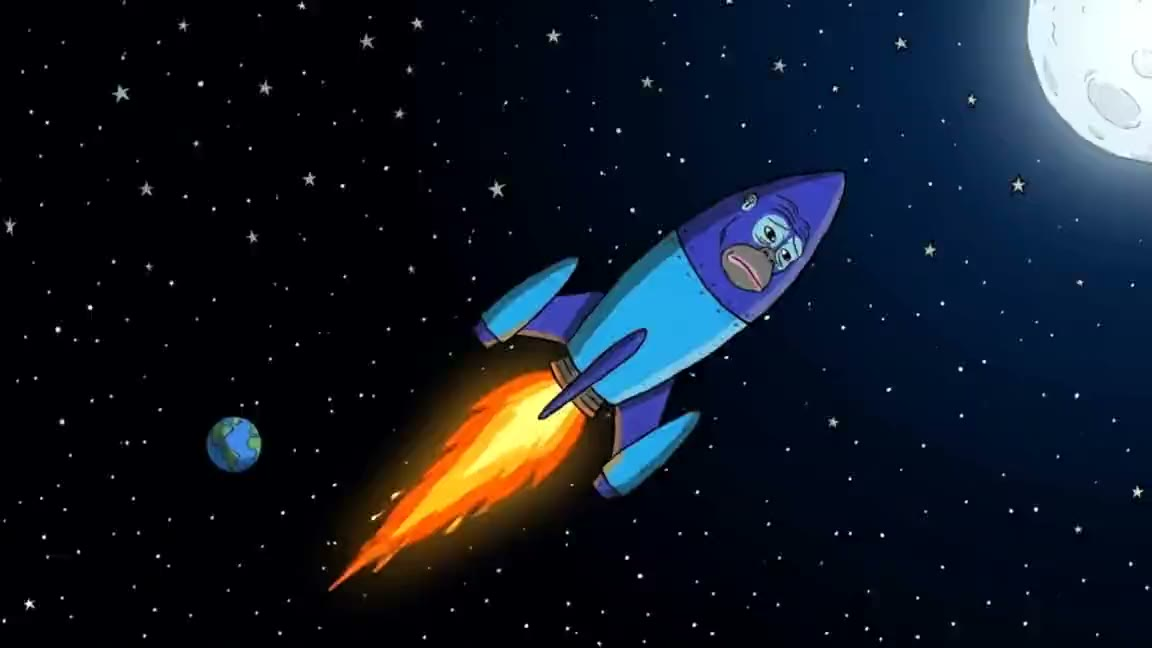
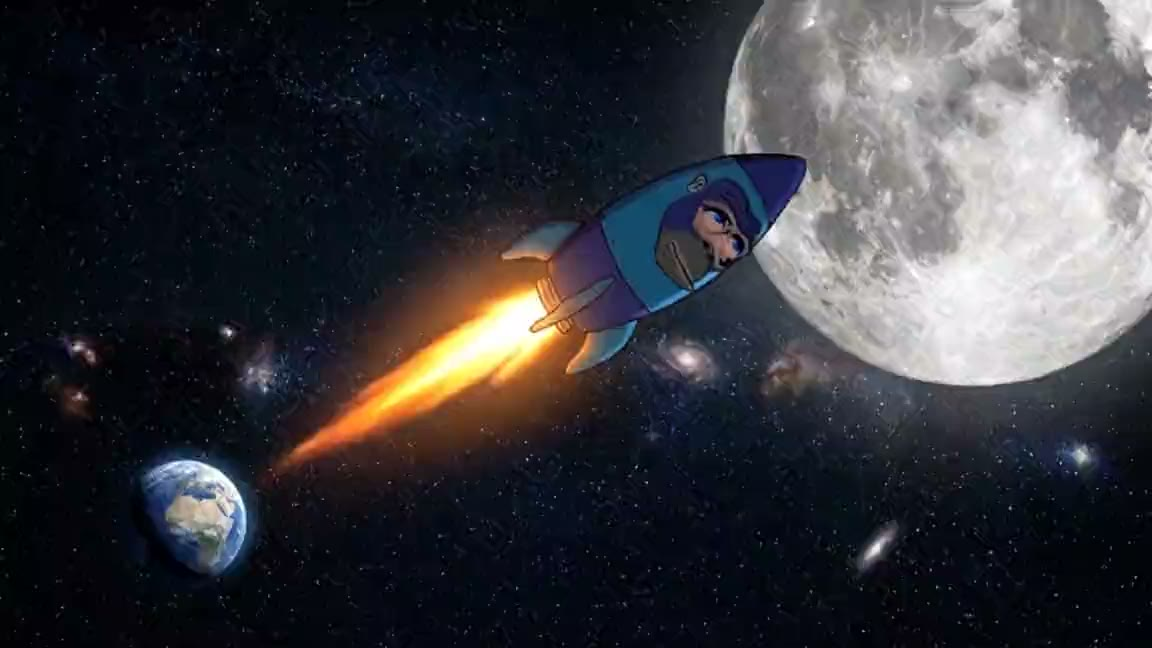
feat: base Ronke NFT card, style-consistent hero film, score sub-nav dropdowns
- Ecosystem NFT card now uses the actual base Ronke 1/1 (Ronkeverse
  #5309: all-default traits) instead of the full-body brand art
- Hero film acts 2-3 reshot in act 1's mixed-media style (photoreal
  night scene / space, cartoon character) - no more flat-drawing style
  break; joins re-verified frame- and style-continuous
- Score sub-sections surfaced in navigation: SCORE dropdown in both
  navbars (hover on desktop, indented list in mobile menu) linking to
  /score?tab=..., tabs deep-linkable and URL-synced with highlighting

diff --git a/components/navbar.tsx b/components/navbar.tsx
@@ -3,6 +3,8 @@
 import Image from "next/image";
 import { usePathname } from "next/navigation";
 import { useEffect, useState } from "react";
+import { ChevronDown } from "lucide-react";
+import { SCORE_TABS } from "./score-embed-tabs";
 
 const NAV_ITEMS = [
   { id: "film", label: "FILM" },
@@ -87,19 +89,52 @@ export default function Navbar() {
             </a>
 
             <div className="hidden items-center gap-6 lg:flex">
-              {NAV_ITEMS.map((item) => (
-                <button
-                  key={item.id}
-                  onClick={() => scrollToSection(item.id)}
-                  className={`text-[13px] font-medium tracking-wide transition-colors ${
-                    activeSection === item.id
-                      ? "text-accent"
-                      : "text-muted-1 hover:text-foreground"
-                  }`}
-                >
-                  {item.label}
-                </button>
-              ))}
+              {NAV_ITEMS.map((item) =>
+                item.id === "score" ? (
+                  <div key={item.id} className="group relative">
+                    <button
+                      onClick={() => scrollToSection(item.id)}
+                      className={`inline-flex items-center gap-1 py-5 text-[13px] font-medium tracking-wide transition-colors ${
+                        activeSection === item.id
+                          ? "text-accent"
+                          : "text-muted-1 hover:text-foreground"
+                      }`}
+                    >
+                      {item.label}
+                      <ChevronDown className="h-3.5 w-3.5" strokeWidth={2} />
+                    </button>
+                    <div className="invisible absolute left-1/2 top-full z-50 w-44 -translate-x-1/2 pt-1 opacity-0 transition-all duration-150 group-focus-within:visible group-focus-within:opacity-100 group-hover:visible group-hover:opacity-100">
+                      <div className="rv-card overflow-hidden py-2">
+                        {SCORE_TABS.map((tab) => (
+                          <a
+                            key={tab.id}
+                            href={
+                              tab.id === "score"
+                                ? "/score"
+                                : `/score?tab=${tab.id}`
+                            }
+                            className="block px-4 py-2 text-[13px] font-medium tracking-wide text-muted-1 transition-colors hover:bg-card-2 hover:text-foreground"
+                          >
+                            {tab.label}
+                          </a>
+                        ))}
+                      </div>
+                    </div>
+                  </div>
+                ) : (
+                  <button
+                    key={item.id}
+                    onClick={() => scrollToSection(item.id)}
+                    className={`text-[13px] font-medium tracking-wide transition-colors ${
+                      activeSection === item.id
+                        ? "text-accent"
+                        : "text-muted-1 hover:text-foreground"
+                    }`}
+                  >
+                    {item.label}
+                  </button>
+                )
+              )}
               <div className="h-5 w-px bg-border" />
               {EXTERNAL_ITEMS.map((item) => (
                 <a
@@ -154,17 +189,36 @@ export default function Navbar() {
           >
             <div className="space-y-1 pt-2">
               {NAV_ITEMS.map((item) => (
-                <button
-                  key={item.id}
-                  onClick={() => scrollToSection(item.id)}
-                  className={`block w-full rounded-md px-3 py-2 text-left text-sm font-medium ${
-                    activeSection === item.id
-                      ? "bg-accent/10 text-accent"
-                      : "text-muted-1 hover:bg-card hover:text-foreground"
-                  }`}
-                >
-                  {item.label}
-                </button>
+                <div key={item.id}>
+                  <button
+                    onClick={() => scrollToSection(item.id)}
+                    className={`block w-full rounded-md px-3 py-2 text-left text-sm font-medium ${
+                      activeSection === item.id
+                        ? "bg-accent/10 text-accent"
+                        : "text-muted-1 hover:bg-card hover:text-foreground"
+                    }`}
+                  >
+                    {item.label}
+                  </button>
+                  {item.id === "score" && (
+                    <div className="ml-3 border-l border-border-soft pl-3">
+                      {SCORE_TABS.map((tab) => (
+                        <a
+                          key={tab.id}
+                          href={
+                            tab.id === "score"
+                              ? "/score"
+                              : `/score?tab=${tab.id}`
+                          }
+                          className="block rounded-md px-3 py-1.5 text-[13px] font-medium text-muted-2 hover:bg-card hover:text-foreground"
+                          onClick={() => setIsMobileMenuOpen(false)}
+                        >
+                          {tab.label}
+                        </a>
+                      ))}
+                    </div>
+                  )}
+                </div>
               ))}
               <div className="my-2 border-t border-border" />
               {EXTERNAL_ITEMS.map((item) => (

diff --git a/components/page-navbar.tsx b/components/page-navbar.tsx
@@ -2,13 +2,57 @@
 
 import Image from "next/image";
 import Link from "next/link";
+import { Suspense } from "react";
+import { usePathname, useSearchParams } from "next/navigation";
+import { ChevronDown } from "lucide-react";
+import { SCORE_TABS, isScoreTabId } from "./score-embed-tabs";
 
 const NAV_ITEMS = [
   { href: "/", label: "HOME" },
-  { href: "/score", label: "SCORE" },
   { href: "/gallery", label: "GALLERY" },
   { href: "/passport", label: "PASSPORT" },
 ];
+
+function ScoreMenu() {
+  const pathname = usePathname();
+  const searchParams = useSearchParams();
+  const requested = searchParams.get("tab");
+  const activeTab =
+    pathname === "/score" ? (isScoreTabId(requested) ? requested : "score") : null;
+
+  return (
+    <div className="group relative">
+      <Link
+        href="/score"
+        className={`inline-flex items-center gap-1 py-5 text-[13px] font-medium tracking-wide transition-colors ${
+          pathname === "/score"
+            ? "text-accent"
+            : "text-muted-1 hover:text-foreground"
+        }`}
+      >
+        SCORE
+        <ChevronDown className="h-3.5 w-3.5" strokeWidth={2} />
+      </Link>
+      <div className="invisible absolute left-1/2 top-full z-50 w-44 -translate-x-1/2 pt-1 opacity-0 transition-all duration-150 group-focus-within:visible group-focus-within:opacity-100 group-hover:visible group-hover:opacity-100">
+        <div className="rv-card overflow-hidden py-2">
+          {SCORE_TABS.map((tab) => (
+            <Link
+              key={tab.id}
+              href={tab.id === "score" ? "/score" : `/score?tab=${tab.id}`}
+              className={`block px-4 py-2 text-[13px] font-medium tracking-wide transition-colors ${
+                activeTab === tab.id
+                  ? "text-accent"
+                  : "text-muted-1 hover:bg-card-2 hover:text-foreground"
+              }`}
+            >
+              {tab.label}
+            </Link>
+          ))}
+        </div>
+      </div>
+    </div>
+  );
+}
 
 export default function PageNavbar() {
   return (
@@ -37,14 +81,32 @@ export default function PageNavbar() {
             </Link>
 
             <div className="flex items-center gap-6">
-              {NAV_ITEMS.map((item) => (
-                <a
+              <Link
+                href="/"
+                className="text-[13px] font-medium tracking-wide text-muted-1 transition-colors hover:text-foreground"
+              >
+                HOME
+              </Link>
+              <Suspense
+                fallback={
+                  <Link
+                    href="/score"
+                    className="text-[13px] font-medium tracking-wide text-muted-1"
+                  >
+                    SCORE
+                  </Link>
+                }
+              >
+                <ScoreMenu />
+              </Suspense>
+              {NAV_ITEMS.slice(1).map((item) => (
+                <Link
                   key={item.href}
                   href={item.href}
                   className="text-[13px] font-medium tracking-wide text-muted-1 transition-colors hover:text-foreground"
                 >
                   {item.label}
-                </a>
+                </Link>
               ))}
             </div>
           </div>

diff --git a/components/score-embed-tabs.tsx b/components/score-embed-tabs.tsx
@@ -1,6 +1,7 @@
 "use client";
 
 import { useState } from "react";
+import { useRouter, useSearchParams } from "next/navigation";
 
 const ANALYTICS_URL = "https://ronke-analytics.vercel.app";
 
@@ -11,7 +12,7 @@ const ANALYTICS_URL = "https://ronke-analytics.vercel.app";
 // asset toggles) stays visible and useful.
 const NAV_CROP = 59;
 
-const TABS = [
+export const SCORE_TABS = [
   { id: "score", label: "SCORE", path: "/#ronke-score" },
   { id: "analytics", label: "ANALYTICS", path: "/overview" },
   { id: "leaderboard", label: "LEADERBOARD", path: "/leaderboard" },
@@ -19,13 +20,36 @@ const TABS = [
   { id: "resources", label: "RESOURCES", path: "/resources" },
 ] as const;
 
+export type ScoreTabId = (typeof SCORE_TABS)[number]["id"];
+
+export function isScoreTabId(value: string | null): value is ScoreTabId {
+  return SCORE_TABS.some((t) => t.id === value);
+}
+
 export default function ScoreEmbedTabs() {
-  const [active, setActive] = useState<(typeof TABS)[number]["id"]>("score");
+  const router = useRouter();
+  const searchParams = useSearchParams();
+  const requested = searchParams.get("tab");
+  const [active, setActive] = useState<ScoreTabId>(
+    isScoreTabId(requested) ? requested : "score"
+  );
   const [loaded, setLoaded] = useState(false);
-  const tab = TABS.find((t) => t.id === active)!;
+  const tab = SCORE_TABS.find((t) => t.id === active)!;
+
+  const selectTab = (id: ScoreTabId) => {
+    if (id === active) return;
+    setLoaded(false);
+    setActive(id);
+    router.replace(id === "score" ? "/score" : `/score?tab=${id}`, {
+      scroll: false,
+    });
+  };
 
   return (
-    <div className="flex h-[calc(100dvh-4rem)] flex-col" style={{ marginTop: "4rem" }}>
+    <div
+      className="flex h-[calc(100dvh-4rem)] flex-col"
+      style={{ marginTop: "4rem" }}
+    >
       <div
         className="border-b border-border"
         style={{
@@ -38,14 +62,10 @@ export default function ScoreEmbedTabs() {
           className="rv-scroll mx-auto flex max-w-6xl gap-6 overflow-x-auto px-4 sm:px-6"
           aria-label="Analytics sections"
         >
-          {TABS.map((t) => (
+          {SCORE_TABS.map((t) => (
             <button
               key={t.id}
-              onClick={() => {
-                if (t.id === active) return;
-                setLoaded(false);
-                setActive(t.id);
-              }}
+              onClick={() => selectTab(t.id)}
               className={`whitespace-nowrap border-b-2 py-3 text-[13px] font-medium tracking-wide transition-colors ${
                 active === t.id
                   ? "border-accent text-accent"

diff --git a/components/tokens-section.tsx b/components/tokens-section.tsx
@@ -105,11 +105,11 @@ export default function TokensSection() {
             className="rv-hover flex items-center gap-4 rounded-2xl border border-border bg-card-2 p-5"
           >
             <Image
-              src="/ronkebase.png"
-              alt="Ronke the Monke"
+              src="/images/5309.png"
+              alt="The base Ronke, Ronkeverse number 5309"
               width={44}
               height={44}
-              className="rounded-xl object-contain"
+              className="rounded-xl"
             />
             <div className="min-w-0 flex-1">
               <div className="flex items-baseline gap-2">

diff --git a/app/score/page.tsx b/app/score/page.tsx
@@ -1,4 +1,5 @@
 import { Metadata } from "next";
+import { Suspense } from "react";
 import PageNavbar from "@/components/page-navbar";
 import ScoreEmbedTabs from "@/components/score-embed-tabs";
 
@@ -22,7 +23,9 @@ export default function ScorePage() {
   return (
     <main className="h-[100dvh] overflow-hidden">
       <PageNavbar />
-      <ScoreEmbedTabs />
+      <Suspense>
+        <ScoreEmbedTabs />
+      </Suspense>
     </main>
   );
 }